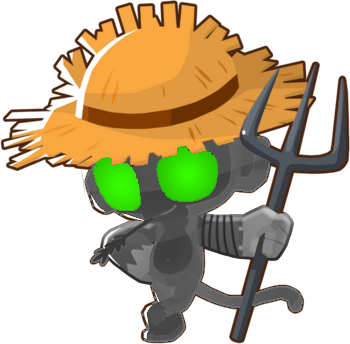
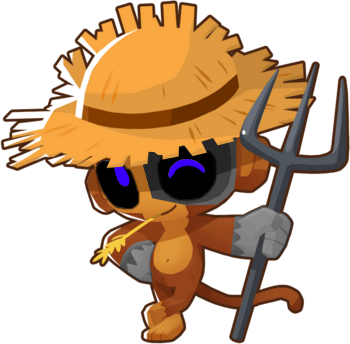
Cyborg Farmer Redesign

Changed region(s): [[0.2286, 0.3779, 0.8857, 1.0], [0.7143, 0.5814, 0.8571, 0.7558], [0.3429, 0.7849, 0.4, 0.814]]

diff --git a/Helper.cs b/Helper.cs
@@ -10,12 +10,13 @@ namespace VoidBananaFarmer
 {
     public static class Helper  
     {
+        private static readonly int MainTex = Shader.PropertyToID("_MainTex");
         public static TowerModel BaseBananaFarmer => Game.instance.model.GetTowerFromId("BananaFarmer");
         public static string BananaFarmerDisplay => BaseBananaFarmer.display.guidRef;
 
         public static void UpdateHatTexture(UnityDisplayNode node, Texture tex)
         {
-            node.genericRenderers[0].materials[1].SetTexture("_MainTex", tex);
+            node.genericRenderers[0].materials[1].SetTexture(MainTex, tex);
         }
 
         public static void UpdateAttackModelRange(TowerModel spainico)
@@ -28,37 +29,6 @@ namespace VoidBananaFarmer
                 }
             }
         }
-
-        // public static UnityDisplayNode GetNode(string guid)
-        // {
-        //     UnityDisplayNode udn = null;
-        //     Game.instance.GetDisplayFactory().FindAndSetupPrototypeAsync(guid, (Action<UnityDisplayNode>)delegate (UnityDisplayNode node)
-        //     {
-        //         udn = node;
-        //     });
-        //     return udn;
-        // }
-
-/*        public static Texture2D Duplicate(this Texture texture, Rect? proj = null)
-        {
-                if (proj == null) proj = new Rect(0, 0, texture.width, texture.height);
-                var rect = (Rect)proj;
-                texture.filterMode = FilterMode.Point;
-                RenderTexture rt = RenderTexture.GetTemporary(texture.width, texture.height);
-                rt.filterMode = FilterMode.Point;
-                RenderTexture.active = rt;
-                Graphics.Blit(texture, rt);
-                Texture2D texture2 = new Texture2D((int)rect.width, (int)rect.height);
-                texture2.ReadPixels(new Rect(rect.x, texture.height - rect.height - rect.y, rect.width, rect.height), 0, 0);
-                texture2.Apply();
-                RenderTexture.active = null;
-                return texture2;
-        }
-*//*        publ*//*ic static void CustomSaveToPng(string Path, Texture tex)
-        {
-            Texture2D texture = tex.Duplicate();
-            File.WriteAllBytes($"{Path}.png", ImageConversion.EncodeToPNG(texture));
-        }*/
     }
 }
 

diff --git a/BananaFarmerMod.cs b/BananaFarmerMod.cs
@@ -1,7 +1,4 @@
-#region imports
-
-using System;
-using Il2CppAssets.Scripts.Models.GenericBehaviors;
+using Il2CppAssets.Scripts.Models.GenericBehaviors;
 using Il2CppAssets.Scripts.Models.Towers;
 using Il2CppAssets.Scripts.Models.Towers.Behaviors;
 using Il2CppAssets.Scripts.Models.Towers.Behaviors.Attack;
@@ -13,15 +10,6 @@ using MelonLoader;
 using ModHelperData = VoidBananaFarmer.ModHelperData;
 using Il2CppAssets.Scripts.Models.TowerSets;
 using VoidBananaFarmer.Tower;
-
-#endregion
-
-/*
-Credits
-Kosmic#4494 for some great sprite work
-1330 Studios discord for help with recommending and explaining certain behaviors (https://discord.gg/BxauzvUUjE)
-BTD6 Mods & Discussion discord for great and efficient problem solving and debugging (https://discord.gg/dV682SPepR)
-*/
 
 [assembly: MelonGame("Ninja Kiwi", "BloonsTD6")]
 [assembly: MelonColor(255,255,255,255)]
@@ -53,8 +41,8 @@ namespace VoidBananaFarmer
                 towerModel.range = 45;
                 towerModel.AddBehavior(new CollectCashZoneModel("CollectCashZoneModel_",45,19,3,"",true,true,true,true));
             }
-
-            public override bool IsValidCrosspath(int[] tiers) => ModHelper.HasMod("Ultimate Crosspathing") ? true : base.IsValidCrosspath(tiers);
+            
+            public override bool IsValidCrosspath(params int[] tiers) => ModHelper.HasMod("Ultimate Crosspathing") || base.IsValidCrosspath(tiers);
         }
     }
 }

diff --git a/Tower/Upgrades/ParagonUpgrade.cs b/Tower/Upgrades/ParagonUpgrade.cs
@@ -17,11 +17,9 @@ namespace VoidBananaFarmer.Tower.Upgrades
     {
         public class Paragon : ModParagonUpgrade<BananaFarmerMod.BananaFarmerTower>
         {
-            //public override string Name => "PotassiumSupreme";
             public override string DisplayName => "Potassium Supreme";
             public override int Cost => 700000;
             public override string Description => "The embodiment of the monkey economy itself.";
-
             public override string Icon => "Paragon-Icon";
             public override string Portrait => "Paragon-Portrait";
 
@@ -58,7 +56,7 @@ namespace VoidBananaFarmer.Tower.Upgrades
                 bananaGunProj.pierce = 9;
                 bananaGunProj.ApplyDisplay<Displays.ProjectileDisplays.GoldenBananaProjectileDisplay>();
 
-
+                //Edit Banana Farm Cash and Collect Cash Zone Models
                 var BananaFarmAttackModel = Game.instance.model.GetTowerFromId("BananaFarm").GetAttackModel().Duplicate();
                 BananaFarmAttackModel.name = "BananaFarm_";
                 BananaFarmAttackModel.weapons[0].GetBehavior<EmissionsPerRoundFilterModel>().count = 40;

diff --git a/Tower/Upgrades/TopPathUpgrades.cs b/Tower/Upgrades/TopPathUpgrades.cs
@@ -94,8 +94,11 @@ namespace VoidBananaFarmer.Tower.Upgrades
                 public override string BaseDisplay => BananaFarmerDisplay;
                 public override void ModifyDisplayNode(UnityDisplayNode node)
                 {
-                    foreach (Renderer genericRenderer in node.genericRenderers)
+                    foreach (var genericRenderer in node.genericRenderers)
+                    {
                         genericRenderer.material.mainTexture = GetTexture("CyborgFarmer_Texture");
+                        genericRenderer.SetOutlineColor(new Color(0, 0.45f, 0.45f, 0.45f));
+                    }
                 }
             }
         }
